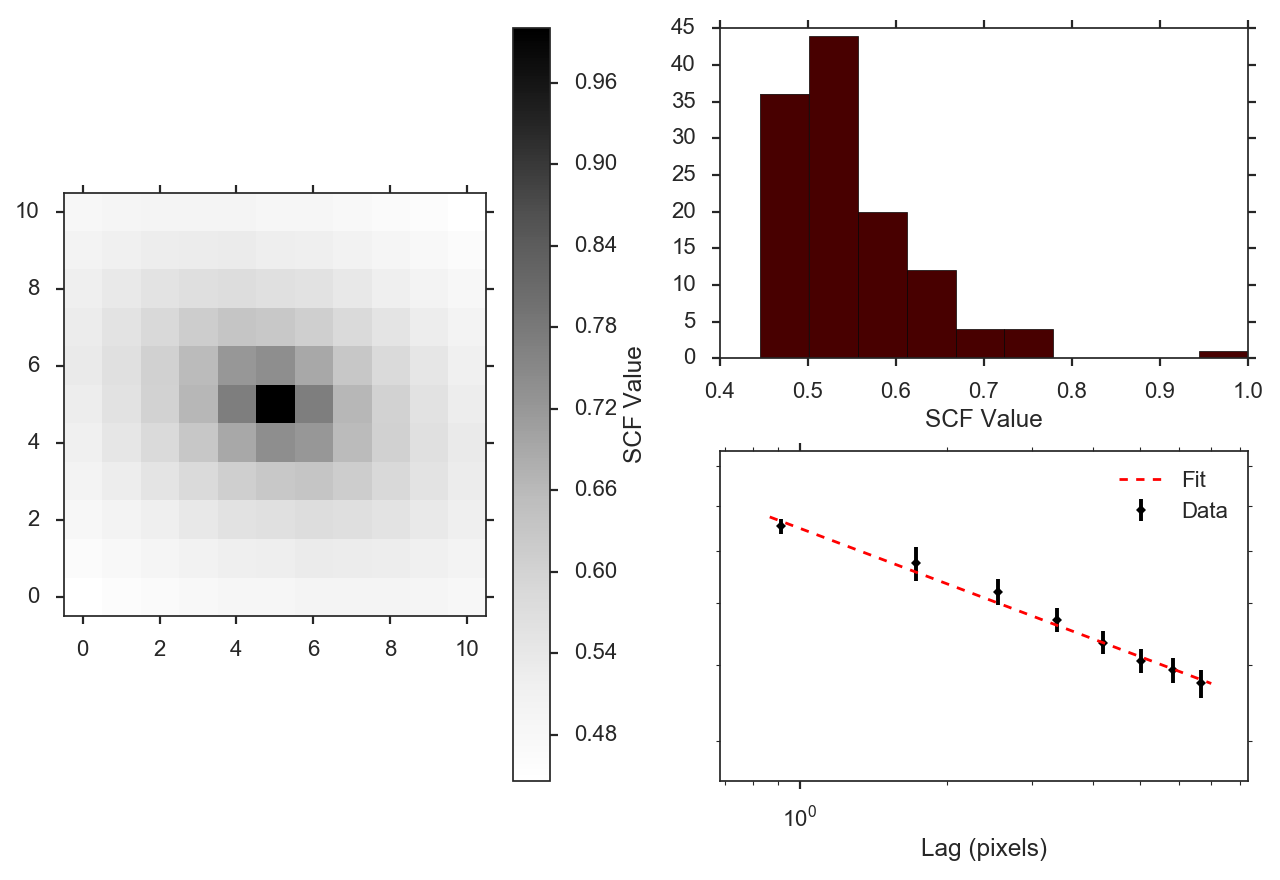
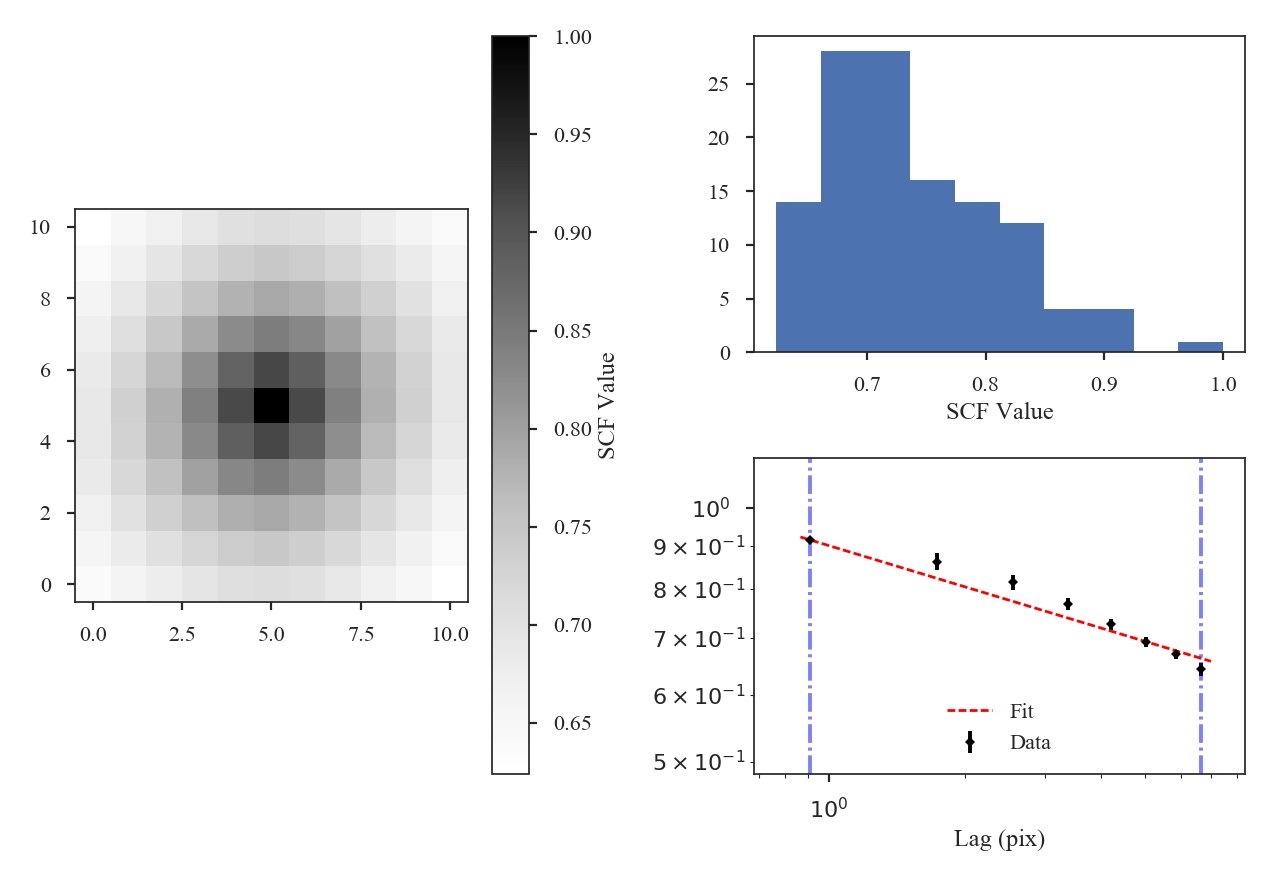
Update and extend SCF tutorial; add to tutorial page

diff --git a/docs/tutorials/statistics/scf_example.rst b/docs/tutorials/statistics/scf_example.rst
@@ -14,9 +14,9 @@ The Spectral Correlation Function was introduced by :ref:`Rosolowsky et al. 1999
     |I(\mathbf{x},v)-I(\mathbf{x}+\boldsymbol{\ell},v)|^2}{\sum_v
     |I(\mathbf{x},v)|^2+\sum_v |I(\mathbf{x}+\boldsymbol{\ell},v)|^2}}\right\rangle_{\mathbf{x}}.
 
-:math:`S(\boldsymbol{\ell})` is the total correlation between the cube, and the cube shifted by the *lag*, the vector :math:`\boldsymbol{\ell}=(\Deltax, \Deltay)`. By repeating this process for a series of :math:`\Deltax, \Deltay)` in the spatial dimensions, a 2D correlation surface is created. This surface describes the spatial scales on which the spectral features begin to change.
+:math:`S(\boldsymbol{\ell})` is the total correlation between the cube, and the cube shifted by the *lag*, the vector :math:`\boldsymbol{\ell}=(\Delta x, \Delta y)`. By repeating this process for a series of :math:`\Delta x, \Delta y)` in the spatial dimensions, a 2D correlation surface is created. This surface describes the spatial scales on which the spectral features begin to change.
 
-The correlation surface can be further simplified by computing an azimuthal average, yielding a 1D spectrum of the correlation vs. length of the lag vector. This form, as is presented in XXX and XXX, yields a power-law relation, whose slope can be used to quantify differences between different spectral cubes. An example of this comparison is the study by :ref:`Gaches et al. 2015 <ref-gaches2015>`, where the effect of chemical species analyzed is traced through changes in the SCF slope.
+The correlation surface can be further simplified by computing an azimuthal average, yielding a 1D spectrum of the correlation vs. length of the lag vector. This form, as is presented in :ref:`Rosolowsky et al. 1999 <ref-rosolowsky1999>` and :ref:`Padoan et al. 2001 <ref-padoan2001>`, yields a power-law relation, whose slope can be used to quantify differences between different spectral cubes. An example of this comparison is the study by :ref:`Gaches et al. 2015 <ref-gaches2015>`, where the effect of chemical species analyzed is traced through changes in the SCF slope.
 
 Using
 -----
@@ -27,16 +27,17 @@ Importing a few common packages:
 
     >>> from turbustat.statistics import SCF
     >>> from astropy.io import fits
+    >>> import astropy.units as u
 
 And we load in the data:
 
-    >>> cube = fits.open("Design4_21_0_0_flatrho_0021_13co.fits")[0]  # doctest: +SKIP
+    >>> cube = fits.open("Design4_flatrho_0021_00_radmc.fits")[0]  # doctest: +SKIP
 
 The cube and lags to use are given to initialize the `~turbustat.statistics.SCF`  class:
 
     >>> scf = SCF(cube, size=11)  # doctest: +SKIP
 
-`size` describes the total size of one dimension of the correlation surface. Thus `size=11` will compute up to a lag size of 5 pixels in each direction. Alternatively, a set of custom lag values can be passed using `roll_lags`. No restriction is placed on the values of these lags, however the azimuthally average spectrum is only usable if the given lags are symmetric with positive and negative values.
+`size` describes the total size of one dimension of the correlation surface and will compute the SCF up to a lag of 5 pixels in each direction. Alternatively, a set of custom lag values can be passed using `roll_lags` (see the example with physical units below). No restriction is placed on the values of these lags, however the azimuthally average spectrum is only usable if the given lags are symmetric with positive and negative values. Also note that lags do not have to be integer values! `~turbustat.statistics.SCF` handles non-integer shifts by shifting the data in the Fourier plane.
 
 To compute the SCF, we run:
 
@@ -44,79 +45,164 @@ To compute the SCF, we run:
                                 WLS Regression Results
     ==============================================================================
     Dep. Variable:                      y   R-squared:                       0.991
-    Model:                            WLS   Adj. R-squared:                  0.989
-    Method:                 Least Squares   F-statistic:                     658.8
-    Date:                Thu, 27 Oct 2016   Prob (F-statistic):           2.31e-07
-    Time:                        22:48:36   Log-Likelihood:                 28.480
-    No. Observations:                   8   AIC:                            -52.96
-    Df Residuals:                       6   BIC:                            -52.80
+    Model:                            WLS   Adj. R-squared:                  0.990
+    Method:                 Least Squares   F-statistic:                     661.0
+    Date:                Tue, 18 Jul 2017   Prob (F-statistic):           2.28e-07
+    Time:                        10:07:56   Log-Likelihood:                 26.958
+    No. Observations:                   8   AIC:                            -49.92
+    Df Residuals:                       6   BIC:                            -49.76
     Df Model:                           1
     Covariance Type:            nonrobust
     ==============================================================================
-                     coef    std err          t      P>|t|      [95.0% Conf. Int.]
+                     coef    std err          t      P>|t|      [0.025      0.975]
     ------------------------------------------------------------------------------
-    const         -0.1258      0.005    -23.019      0.000        -0.139    -0.112
-    x1            -0.2355      0.009    -25.667      0.000        -0.258    -0.213
+    const         -0.0450      0.001    -33.254      0.000      -0.048      -0.042
+    x1            -0.1624      0.006    -25.710      0.000      -0.178      -0.147
     ==============================================================================
-    Omnibus:                        1.126   Durbin-Watson:                   0.998
-    Prob(Omnibus):                  0.570   Jarque-Bera (JB):                0.708
-    Skew:                           0.371   Prob(JB):                        0.702
-    Kurtosis:                       1.745   Cond. No.                         4.36
+    Omnibus:                        1.340   Durbin-Watson:                   0.445
+    Prob(Omnibus):                  0.512   Jarque-Bera (JB):                0.696
+    Skew:                          -0.248   Prob(JB):                        0.706
+    Kurtosis:                       1.643   Cond. No.                         4.70
     ==============================================================================
 
 .. image:: images/design4_scf.png
 
 The summary plot shows the correlation surface, a histogram of correlation values, and the 1D spectrum from the azimuthal average, plotted with the power-law fit. A weighted least-squares fit is used to find the slope of the SCF spectrum, where the inverse squared standard deviation from the azimuthal average are used as the weights.
 
-Real data may not have a spectrum described by a single power-law. In this case, the fit limits can be specified using `xlow` and `xhigh`. These cutoffs correspond to log pixel scales.
+Real data may not have a spectrum described by a single power-law. In this case, the fit limits can be specified using `xlow` and `xhigh` to limit which scales are used in the fit.
 
-    >>> scf.run(verbose=True, xlow=1, xhigh=np.log10(5))  # doctest: +SKIP
+    >>> scf.run(verbose=True, xlow=1 * u.pix, xhigh=5 * u.pix)  # doctest: +SKIP
                                 WLS Regression Results
     ==============================================================================
-    Dep. Variable:                      y   R-squared:                       0.992
-    Model:                            WLS   Adj. R-squared:                  0.989
-    Method:                 Least Squares   F-statistic:                     263.7
-    Date:                Thu, 27 Oct 2016   Prob (F-statistic):            0.00377
-    Time:                        23:09:26   Log-Likelihood:                 17.473
-    No. Observations:                   4   AIC:                            -30.95
-    Df Residuals:                       2   BIC:                            -32.17
+    Dep. Variable:                      y   R-squared:                       0.983
+    Model:                            WLS   Adj. R-squared:                  0.975
+    Method:                 Least Squares   F-statistic:                     118.9
+    Date:                Tue, 18 Jul 2017   Prob (F-statistic):            0.00831
+    Time:                        10:10:42   Log-Likelihood:                 16.864
+    No. Observations:                   4   AIC:                            -29.73
+    Df Residuals:                       2   BIC:                            -30.95
     Df Model:                           1
     Covariance Type:            nonrobust
     ==============================================================================
-                     coef    std err          t      P>|t|      [95.0% Conf. Int.]
+                     coef    std err          t      P>|t|      [0.025      0.975]
     ------------------------------------------------------------------------------
-    const         -0.0993      0.009    -11.261      0.008        -0.137    -0.061
-    x1            -0.2746      0.017    -16.238      0.004        -0.347    -0.202
+    const         -0.0103      0.010     -1.036      0.409      -0.053       0.032
+    x1            -0.2027      0.019    -10.902      0.008      -0.283      -0.123
     ==============================================================================
-    Omnibus:                          nan   Durbin-Watson:                   2.120
-    Prob(Omnibus):                    nan   Jarque-Bera (JB):                0.466
-    Skew:                           0.120   Prob(JB):                        0.792
-    Kurtosis:                       1.345   Cond. No.                         10.3
+    Omnibus:                          nan   Durbin-Watson:                   2.000
+    Prob(Omnibus):                    nan   Jarque-Bera (JB):                0.637
+    Skew:                          -0.020   Prob(JB):                        0.727
+    Kurtosis:                       1.045   Cond. No.                         10.0
     ==============================================================================
 
-The slope has steepened a bit, but the simulated cube gives a near power-law relation already. See Figure 8 in :ref:`Padoan et al. 2001 <ref-padoan2001>` shows deviations from power-law behaviour.
+.. image:: images/design4_scf_fitlimits.png
 
-Computing the SCF is one of the more computationally expensive statistics in TurbuStat. This is due to shifting the entire cube along the spatial dimensions for each value in the correlation surface. The results of the SCF can be saved to avoid recomputing the statistic. As for the dendrogram statistics, the class is pickled:
+Here the fit limits were given in pixel units, but angular units and physical units (if a distance is given) can also be passed. For these data, there is some deviation from a power-law at small lags over the range of lags used and so limiting the fitting range has not significantly changed the fit. See Figure 8 in :ref:`Padoan et al. 2001 <ref-padoan2001>` for an example of deviations from power-law behaviour in the SCF spectrum.
+
+The slope of the model can be accessed with `scf.slope` and its standard error with `scf.slope_err`. The slope and intercept values are in `scf.fit.params`. `scf.fitted_model` can be used to evaluate the model at any given lag value. For example:
+
+    >>> scf.fitted_model(1 * u.pix)
+    0.97659777310171636
+    >>> scf.fitted_model(u.Quantity([1, 10]) * u.pix)
+    array([ 0.97659777,  0.61242384])
+    >>> scf.fitted_model(u.Quantity([50, 100]) * u.arcsec)
+    array([ 0.44197356,  0.3840506 ])
+
+All values passed must have an attached unit. Physical units can be given when a distance has been given (see below).
+
+In some cases, it may be preferable to calculate the SCF on specific physical scales. When `~turbustat.statistics.SCF` is given a distance,
+`roll_lags`, `xlow`, `xhigh`, and `xunit` can be given in physical units. Angular units can always be given, as well, since `~turbustat.statistics.SCF` requires a FITS header. In this example, we will use a set of custom lags in physical units:
+
+    >>> distance = 250 * u.pc  # Assume a distance
+    >>> phys_conv = (np.abs(cube.header['CDELT2']) * u.deg).to(u.rad).value * distance  # doctest: +SKIP
+    >>> custom_lags = np.arange(-4.5, 5, 1.5) * phys_conv  # doctest: +SKIP
+    >>> print(custom_lags)  # doctest: +SKIP
+    [-0.10296379 -0.06864253 -0.03432126  0.          0.03432126  0.06864253 0.10296379] pc
+
+The lags here are equally spaced and centered around zero. `phys_conv` converts the pixel values into physical units. When calling `~turbustat.statistics.SCF`, the distance must now be given:
+
+    >>> scf_physroll = SCF(cube, roll_lags=custom_lags, distance=distance)  # doctest: +SKIP
+    >>> scf_physroll.run(verbose=True, xunit=u.pc)  # doctest: +SKIP
+                                WLS Regression Results
+    ==============================================================================
+    Dep. Variable:                      y   R-squared:                       0.892
+    Model:                            WLS   Adj. R-squared:                  0.856
+    Method:                 Least Squares   F-statistic:                     24.77
+    Date:                Tue, 18 Jul 2017   Prob (F-statistic):             0.0156
+    Time:                        10:57:18   Log-Likelihood:                 14.907
+    No. Observations:                   5   AIC:                            -25.81
+    Df Residuals:                       3   BIC:                            -26.59
+    Df Model:                           1
+    Covariance Type:            nonrobust
+    ==============================================================================
+                     coef    std err          t      P>|t|      [0.025      0.975]
+    ------------------------------------------------------------------------------
+    const         -0.2522      0.038     -6.725      0.007      -0.372      -0.133
+    x1            -0.1292      0.026     -4.977      0.016      -0.212      -0.047
+    ==============================================================================
+    Omnibus:                          nan   Durbin-Watson:                   1.495
+    Prob(Omnibus):                    nan   Jarque-Bera (JB):                0.757
+    Skew:                           0.914   Prob(JB):                        0.685
+    Kurtosis:                       2.464   Cond. No.                         19.3
+    ==============================================================================
+
+.. image:: images/design4_scf_physroll.png
+
+This example takes a bit longer to run than the others because, whenever a non-integer lag is used, the cube is shifted in Fourier space.
+
+Throughout all of these examples, we have assumed that the spatial boundaries can be wrapped. This is appropriate for the example data since it is generated from a periodic-box simulation and is the default setting (`boundary='continuous'`). Typically this will not be the case for observational data. To avoid wrapping the edges of the data, `boundary='cut'` can be set to avoid using the portion of the data that has been spatially wrapped:
+
+    >>> scf = SCF(cube, size=11)  # doctest: +SKIP
+    >>> scf.run(verbose=True, boundary='cut')  # doctest: +SKIP
+                                WLS Regression Results
+    ==============================================================================
+    Dep. Variable:                      y   R-squared:                       0.993
+    Model:                            WLS   Adj. R-squared:                  0.992
+    Method:                 Least Squares   F-statistic:                     830.7
+    Date:                Tue, 18 Jul 2017   Prob (F-statistic):           1.16e-07
+    Time:                        11:13:18   Log-Likelihood:                 24.569
+    No. Observations:                   8   AIC:                            -45.14
+    Df Residuals:                       6   BIC:                            -44.98
+    Df Model:                           1
+    Covariance Type:            nonrobust
+    ==============================================================================
+                     coef    std err          t      P>|t|      [0.025      0.975]
+    ------------------------------------------------------------------------------
+    const         -0.0834      0.003    -31.106      0.000      -0.090      -0.077
+    x1            -0.2425      0.008    -28.821      0.000      -0.263      -0.222
+    ==============================================================================
+    Omnibus:                        0.723   Durbin-Watson:                   0.501
+    Prob(Omnibus):                  0.697   Jarque-Bera (JB):                0.556
+    Skew:                          -0.236   Prob(JB):                        0.757
+    Kurtosis:                       1.797   Cond. No.                         3.38
+    ==============================================================================
+
+.. image:: images/design4_scf_boundcut.png
+
+This results in a steeper SCF slope as the edges of the rolled cubes are no longer used.
+
+Computing the SCF can be computationally expensive for moderately-size data cubes. This is due to the need for shifting the entire cube along the spatial dimensions at each lag value. To avoid recomputing the SCF surface, the results of the SCF can be saved as a pickled object:
 
     >>> scf.save_results(output_name="Design4_SCF", keep_data=False)  # doctest: +SKIP
 
-`keep_data` will remove the data cube before saving. Having saved the results, they can be reloaded using:
+Disabling `keep_data` will remove the data cube before saving to save storage space.
+Having saved the results, they can be reloaded using:
 
     >>> scf = SCF.load_results("Design4_SCF.pkl")  # doctest: +SKIP
 
-Note that using `keep_data=False` means the loaded version cannot be used to recalculate the SCF.
+Note that if `keep_data=False` was used when saving the file, the loaded version cannot be used to recalculate the SCF.
 
 References
 ----------
 
 .. _ref-rosolowsky1999:
 
-`Rosolowsky et al. 1999 <XXX>`_
+`Rosolowsky et al. 1999 <https://ui.adsabs.harvard.edu/#abs/1999ApJ...524..887R/abstract>`_
 
 .. _ref-padoan2001:
 
-`Padoan et al. 2001 <XXX>`_
+`Padoan et al. 2001 <https://ui.adsabs.harvard.edu/#abs/2001ApJ...547..862P/abstract>`_
 
 .. _ref-gaches2015:
 
-`Gaches et al. 2015 <XXX>`_
+`Gaches et al. 2015 <https://ui.adsabs.harvard.edu/#abs/2015ApJ...799..235G/abstract>`_

diff --git a/docs/tutorials/index.rst b/docs/tutorials/index.rst
@@ -25,6 +25,7 @@ Statistics
     statistics/pca_example
     statistics/pdf_example
     statistics/pspec_example
+    statistics/scf_example
 
     statistics/vca_example
 
